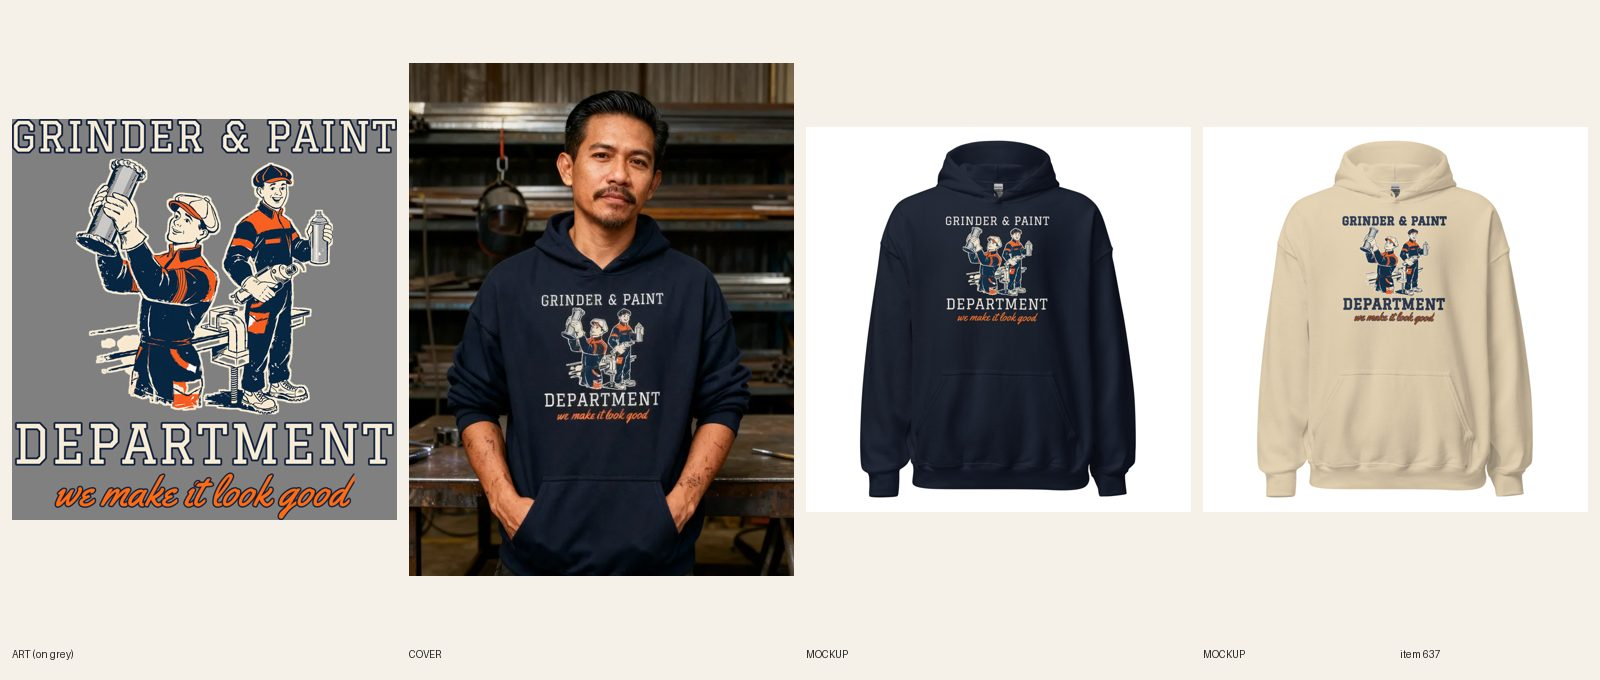
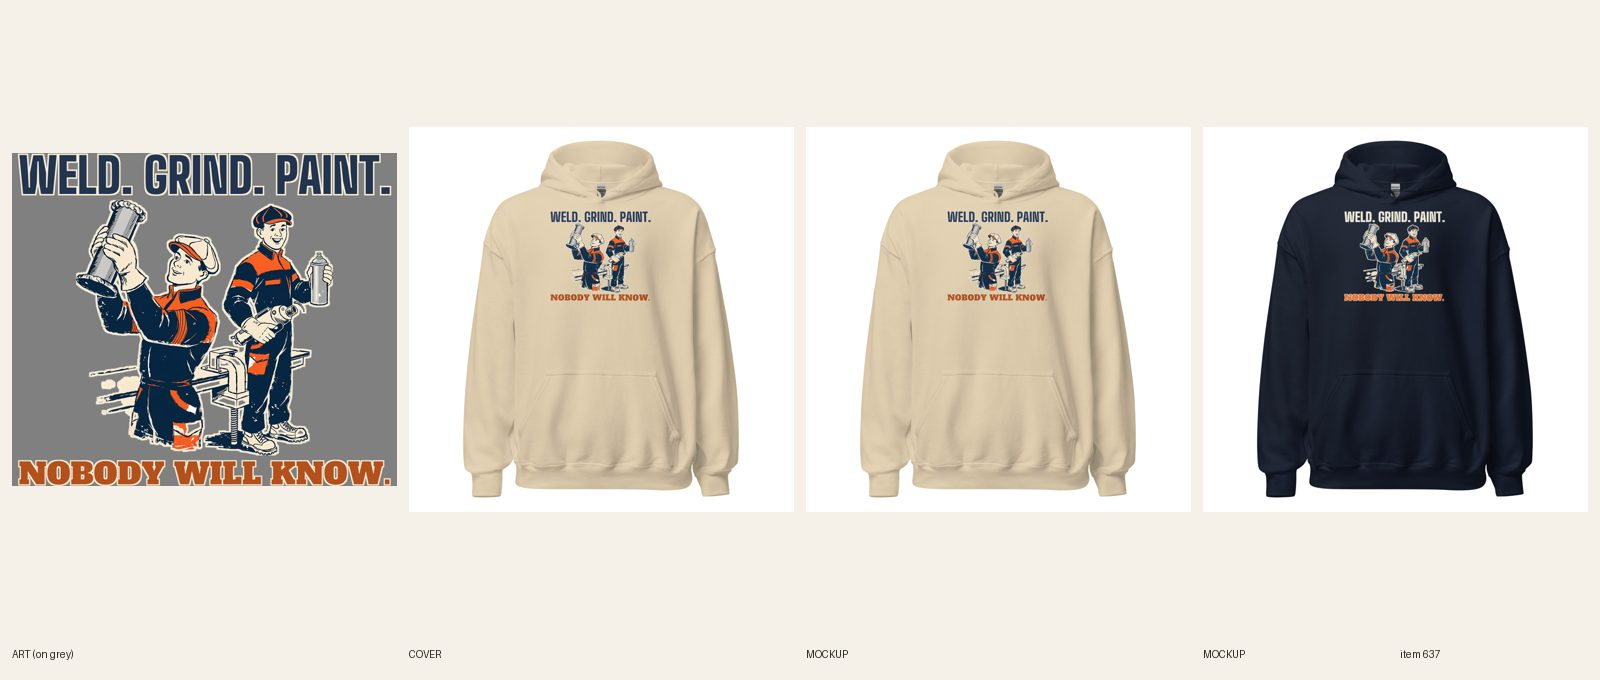
[C] review 637 (redo)
Claude-Session: https://claude.ai/code/session_01CCHcDj8LcJJ8qUPtKE3cvn

diff --git a/designs/c637/make.py b/designs/c637/make.py
@@ -1,0 +1,37 @@
+from PIL import Image, ImageDraw, ImageFont, ImageFilter
+FD='designs/fonts/'
+RED=(196,52,44,255); NAVY=(34,52,79,255); BO=(180,80,28,255); OR=(244,110,36,255); CREAM=(246,236,214,255); BROWN=(58,36,24,255)
+def line(text,font,wfrac,W,fill,key,kw=31,track=0,var=None):
+    def mk(sz):
+        f=ImageFont.truetype(FD+font,sz)
+        if var: f.set_variation_by_axes(var)
+        return f
+    f=mk(800); adv=[f.getlength(c) for c in text]
+    tot=sum(adv)+track*(len(text)-1); size=int(800*W*wfrac/tot)
+    f=mk(size); adv=[f.getlength(c) for c in text]; tr=int(track*size/800)
+    asc,desc=f.getmetrics(); tot=int(sum(adv)+tr*(len(text)-1))
+    pad=80; im=Image.new('RGBA',(tot+2*pad,asc+desc+2*pad),(0,0,0,0))
+    def draw(layer,col):
+        d=ImageDraw.Draw(layer); x=pad
+        for c,a in zip(text,adv): d.text((x,pad),c,font=f,fill=col); x+=a+tr
+    k=Image.new('L',im.size,0); d=ImageDraw.Draw(k); x=pad
+    for c,a in zip(text,adv): d.text((x,pad),c,font=f,fill=255); x+=a+tr
+    k=k.filter(ImageFilter.MaxFilter(kw)); im.paste(Image.new('RGBA',im.size,key),(0,0),k)
+    draw(im,fill)
+    return im.crop(im.getbbox())
+import sys
+def build(tag,src,c1,k1,c2,k2,bgc):
+    im=Image.open('docs/print-files/'+src).convert('RGBA'); W=im.width
+    art=im.crop((0,351,W,2596))
+    h1=line("WELD. GRIND. PAINT.",'BigShouldersDisplay[wght].ttf',0.97,W,c1,k1,kw=27,var=[900])
+    h2=line("NOBODY WILL KNOW.",'AlfaSlabOne-Regular.ttf',0.97,W,c2,k2,kw=23,track=10)
+    print(tag,'h1',h1.size,'h2',h2.size,'ratio h2/h1',h2.height/h1.height)
+    g=36; H=h1.height+g+art.height+g+h2.height
+    out=Image.new('RGBA',(W,H),(0,0,0,0))
+    out.alpha_composite(h1,((W-h1.width)//2,0)); y=h1.height+g
+    out.alpha_composite(art,(0,y)); y+=art.height+g
+    out.alpha_composite(h2,((W-h2.width)//2,y))
+    out.save(f'docs/print-files/637-v2-weld-{tag}.png'); print(out.size,H/W)
+    bg=Image.new('RGBA',out.size,bgc); bg.alpha_composite(out); bg.convert('RGB').resize((600,int(600*H/W))).save(f'designs/c637/prev_{tag}.png')
+build('sand','637-grinder-paint-dark-ink.png',NAVY,CREAM,BO,CREAM,(214,196,160,255))
+build('navy','637-grinder-paint-light-ink.png',CREAM,NAVY,OR,CREAM,(38,50,88,255))

diff --git a/docs/pipeline/637-welder-hoodie-grinder-and-paint-department.md b/docs/pipeline/637-welder-hoodie-grinder-and-paint-department.md
@@ -1,4 +1,4 @@
-status: REDO
+status: REVIEW
 lane: C
 type: twin
 id: 637
@@ -26,3 +26,4 @@ kd: 16
 - 2026-10-18 16:32 UTC builder [C]: DRAFT gid 15365749997872 created (12 variants, category hoodies, $39.99 no compare-at, tags incl graphic-hoodies-for-men, FAQ 6 x 41-48 words incl Dec 8). Twin check R6.2: #530 art fonts real, no ring/disc/panel/typeset line (verified at full size). Light file: Sand on docs/print-files/637-grinder-paint-dark-ink.png, headline fill navy #22344f, script burnt orange #b4501c. Next: sync, mockups, cover.
 - 2026-10-18 16:37 UTC builder [C]: REVIEW. Art reshaped for the pouch (art 87%, 3382x3525, ratio 1.04) so FW 1500 TOP 75 clears the seam; light file Navy 1088962876 (cream), dark-ink file Sand 1088962885 (headline navy #22344f, script burnt orange #b4501c). Printful 12/12 synced, default file checked per variant (Navy 6/6 on 1088962876, Sand 6/6 on 1088962885), back 1080398177. Mockups Navy+Sand+back attached, linked per color, alts per R7.8; phone-size read at 400 px: all three lines legible on both colors. Cover registry 977, attempt 1 kept (seedream, $0.06): hood visible, hands in pouch, nothing over print, first letters G/D/w clear, chest clean; alt starts Man. FAQs 6 x 41-48 words incl Dec 8. Audit-local PASS 0 warn. design-crops pending publish. fal $0.10 (this item).
 - 2026-10-19 09:16 UTC director: REDO (grade C, new line + type against the quality-reset bar, docs/backlog/quality-reset.md; product stays DRAFT). 1. R3.12 / quality-reset step 1: same line as #530, graded C (insider welding joke that needs explaining). Write 5 candidate lines a stranger laughs at in 3 seconds; if none is funny, PARK it. 2. Type: 'we make it look good' is a thin orange script on Navy, banned by the bar on dark and mid garments; the new lockup is heavy on both lines. 3. R7.7: re-link, new mockups and sheet; cover waits on Sam's fal decision. Build it only when the reset allows lane work again.
+- 2026-10-20 08:45 UTC builder [C]: REDO new line + type (grade C; product stays DRAFT). 5 candidates: "WELD. GRIND. PAINT. / NOBODY WILL KNOW." (kept: what the grinder-and-paint department really does, a stranger gets it), "GRINDER & PAINT DEPARTMENT" (old, insider), "IF IT'S CROOKED, WE GRIND IT.", "IT'S NOT A WELD, IT'S A FEATURE.", "BEAD LOOKS GOOD FROM HERE.". Same two-worker art. WELD. GRIND. PAINT. in Big Shoulders Display Black 97% of the art width; NOBODY WILL KNOW. in Alfa Slab One 97% width (62% of the headline's height). Light-file (R5.3.8): Sand file 1090166098 has the headline solid navy with a cream keyline and burnt-orange second line; Navy file 1090166150 has it cream with a navy keyline and safety orange; logged: light file Sand on file 1090166098, headline fill navy (docs/print-files/637-v2-weld-sand.png / -navy.png). Print 3382 x 2926, FW 1500 TOP 0 (ends above the pouch seam), 12/12 relinked per color. 2 fronts replaced in place, read at phone size. Copy, FAQ ink sentence and SEO rewritten for the new joke. Plain product shot. fal $0.

diff --git a/docs/intake-log.md b/docs/intake-log.md
@@ -18,6 +18,7 @@ RUNNING lane B since 2026-10-20 03:28 UTC
 2026-10-20 03:41 UTC — [B] Builder run: redid #362 Women's Baseball hoodie (line + type: MISSED THE PLAY. / SEEDS WERE GOOD., same art, Bowlby One, Navy + Sand light files, 12/12 synced). REVIEW. fal $0.
 2026-10-20 05:26 UTC — [E] Builder run: redid #388 Women's Christmas crewneck (line + type: SORRY, I'M BOOKED TILL JANUARY., new party-calendar art, Navy + Sand files, 12/12 synced, copy updated, plain product shot). REVIEW. fal $0.08.
 RUNNING lane C since 2026-10-20 03:23 UTC
+2026-10-20 08:47 UTC — [C] Builder run: redid #637 Men's Welder hoodie (new line + type: WELD. GRIND. PAINT. / NOBODY WILL KNOW., Big Shoulders + Alfa Slab, same worker art, Sand file 1090166098 + Navy file 1090166150, FW 1500 TOP 0, 12/12 relinked, 2 fronts replaced in place, copy + SEO updated, plain product shot). REVIEW (DRAFT). fal $0.
 2026-10-20 08:12 UTC — [C] Builder run: redid #622 Men's Golf army golf zip hoodie (type only: I PLAY ARMY GOLF. in Anton heavy green, headline kept, back file 1090161443, 12/12 relinked, 2 back mockups replaced in place, copy updated, plain product shot). REVIEW. fal $0.
 2026-10-20 07:32 UTC — [C] Builder run: redid #503 Men's Golf heavyweight hoodie (new line + type: MY SWING IS FINE. / THE TREES MOVED., Anton + Bowlby One, same golfer art, Sandstone file 1090158606 + Storm Blue file 1090158696, FW 1500 TOP 30, 14/14 relinked, 2 fronts replaced in place, copy + SEO updated, plain product shot). REVIEW. fal $0.
 2026-10-20 06:47 UTC — [C] Builder run: redid #495 Men's Gym medieval hoodie (new line + type: LEG DAY CLAIMED / ANOTHER KNIGHT., Cinzel Black + Bevan, same knight art, Sand file 1090154570 + Navy cream-top file 1090155376, FW 1500 TOP 0, 12/12 relinked, 2 fronts replaced in place, copy + SEO updated, plain product shot). REVIEW. fal $0.
